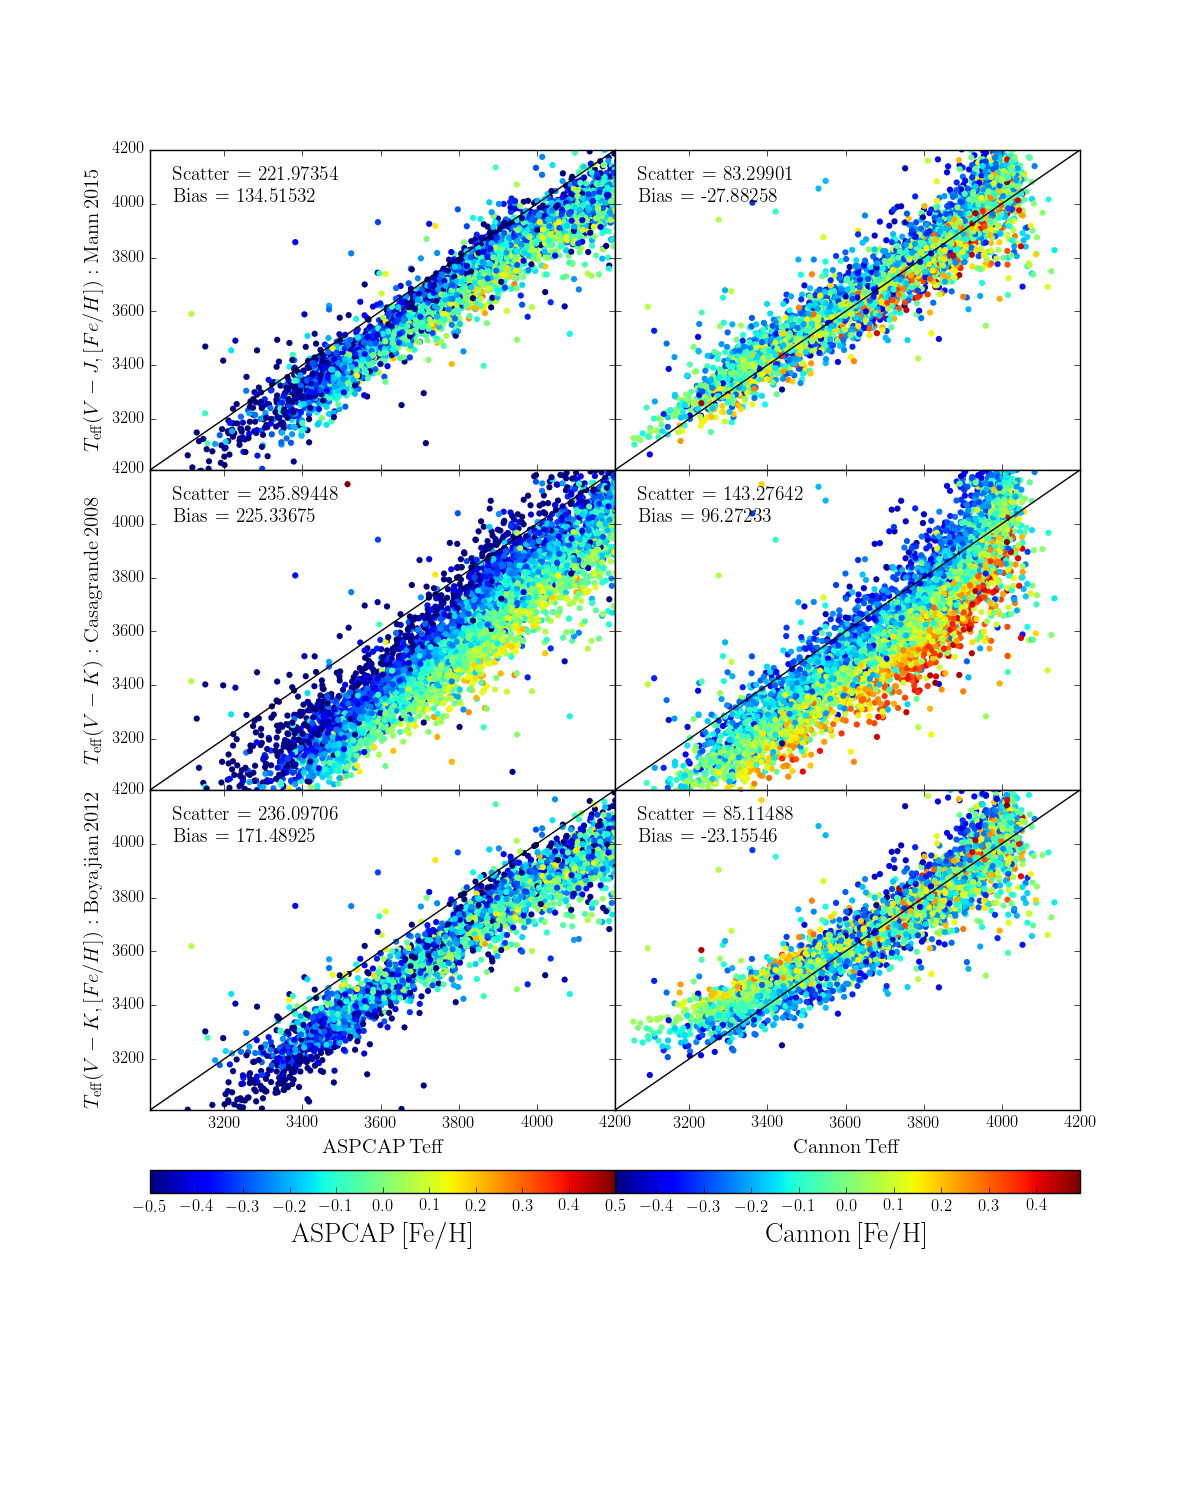
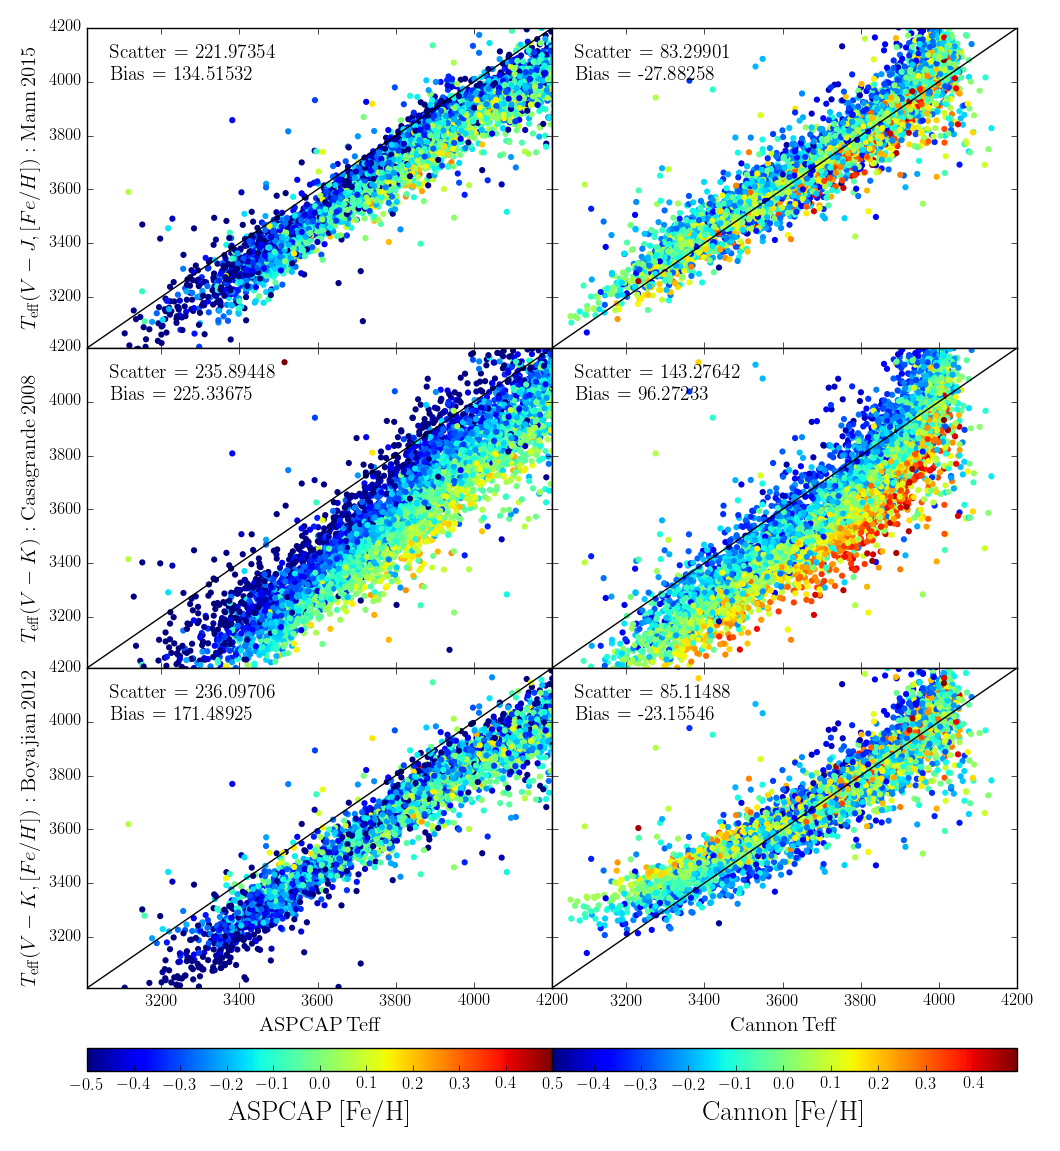
remove unnecessary figure borders

diff --git a/paper/draft.tex b/paper/draft.tex
@@ -242,8 +242,8 @@ derivatives.
 \subsection{Temperature/Metallicity Model \label{subsec:mann_results}}
 
 \begin{figure}
-	\plotone{figures/crv_test_teff.png}
-	\plotone{figures/crv_test_fe_h.png}
+	\includegraphics[width=\linewidth]{figures/crv_test_teff.png}
+	\includegraphics[width=\linewidth]{figures/crv_test_fe_h.png}
 	\caption{Consistency test for the Mann-trained temperature/metallicity type model; self-test (left), and leave-one-out cross validation (right). Sources with strong rotational broadening (2M07171706--0501031, 2M08155393+3136392, 2M09174473+4612246, 2M10331367+3409120, 2M15594729+4403595, 2M13400879+4346380), as identified by visual inspection are marked with red circles. Predictive accuracy, as computed by the scatter in cross validation is 77K in temperature, and 0.09 dex in metallicity.} 
 	\label{fig:mann_validation}
 \end{figure}
@@ -276,8 +276,8 @@ This percent-level accuracy of the model in the data domain is also demonstrated
 
 \begin{figure}
 	\begin{center}
-	\plotone{figures/self_test_spt.png}
-	\plotone{figures/crv_test_spt.png}
+	\includegraphics[width=\linewidth]{figures/self_test_spt.png}
+	\includegraphics[width=\linewidth]{figures/crv_test_spt.png}
 	\end{center}
 	\caption{Consistency test for the West-trained spectral type model; self-test (left), and leave-one-out cross validation (right).  Predictive accuracy, as computed by the scatter in cross validation is 0.9 subtypes.}
 	\label{fig:west_validation}
@@ -289,13 +289,13 @@ We trained \thecannon\ on 51 M dwarfs with a one-dimensional spectral type label
 \subsection{Test Sample \label{subsec:test_selection}} 
 
 \begin{figure*}
-	\plotone{figures/cannon_chi_dist.png}
+	\includegraphics[width=\linewidth]{figures/cannon_chi_dist.png}
 	\caption{\textit{Left:} the distribution of fits for the training sample and known samples of pre-MS stars (\citealt{Cottaar:2014}) and binary sources (\citealt{ElBadry:2018}; \citealt{Skinner:2018}); \textit{right:} the distribution of $\chi^2$ fits for all 14,827 sources in the \apogee --\gaia\ cross match, with color cuts $1<G_{BP}-G_{RP}<6$ and $7.5<M_{G}<20$ and $\varpi>0$. We apply a quality cut of $\chi^2 < 100,000$ to the test sample for those sources we report as ``safe''.}
 	\label{fig:chi_dist}
 \end{figure*}
 
 \begin{figure*}
-	\plotone{figures/cmd_selection.png}
+	\includegraphics[width=\linewidth]{figures/cmd_selection.png}
 	\caption{\gaia\ and \zmass\ color-magnitude cuts for 12,037 sources with $\chi^2<100,000$. Over plotted with orange triangles are the 67 out of 87 training sample sources which have parallaxes measured by \gaia.}
 	\label{fig:cmd_selection}
 \end{figure*}
@@ -330,19 +330,19 @@ Table \ref{table:test_results} presents...
 \subsection{Color-Temperature Comparisons}
 
 \begin{figure*}[h]
-	\plotone{figures/aspcap_cannon_validation.png}
+	\includegraphics[width=\linewidth]{figures/aspcap_cannon_validation.png}
 	\caption{\cannon\ (right column) and \aspcap\ (left column) temperatures as compared to temperatures estimated color-temperature relations from three different literature sources for a subsample of 6,257 sources with $V,J,K$ colors. Shown are \cannon\ and \aspcap\ temperatures (x-axis) compared to temperatures estimated from the \citealt{Mann:2015} $V-J$ and $\feh$ dependent relation (top), \citealt{Casagrande:2008} $V-K$ relation (middle), and the \citealt{Boyajian:2012} relation $V-K$ and $\feh$ (bottom).}
 	\label{fig:teff_comparisons}
 \end{figure*}
 
 \begin{figure*}[h]
-	\plotone{figures/aspcap_cannon_label_hist.png}
+	\includegraphics[width=\linewidth]{figures/aspcap_cannon_label_hist.png}
 	\caption{Distribution of temperatures and metallicities for 10,311 sources from \thecannon\ compared to the \aspcap\ pipeline. Note that \cannon\ temperatures only span $2850<T_{\rm eff}<4150$ and $-0.5<\feh<0.5$\,dex because we have imposed cutoffs for stars that fall outside of the training sample range, however for the same 10,311 stars \aspcap\ predicts temperatures with slightly higher temperatures and metallicities.}
 	\label{fig:aspcap_cannon_label_hist} 
 \end{figure*}
 
 \begin{figure*}[h]
-	\plotone{figures/isochrone_cmd.png}
+	\includegraphics[width=\linewidth]{figures/isochrone_cmd.png}
 	\caption{Comparison of \cannon\ $\feh$ as compared to metallicity predicted by PARSEC isochrone tracks \citealt{Bressan:2012} in \gaia\ color-magnitude space. The four panels show five metallicity tracks (ranging $-0.5<$[M/H]$<0.5$) over varying ages (1, 3, 5, and 7 Gyr).}
 	\label{fig:isochrone_cmd}
 \end{figure*}
